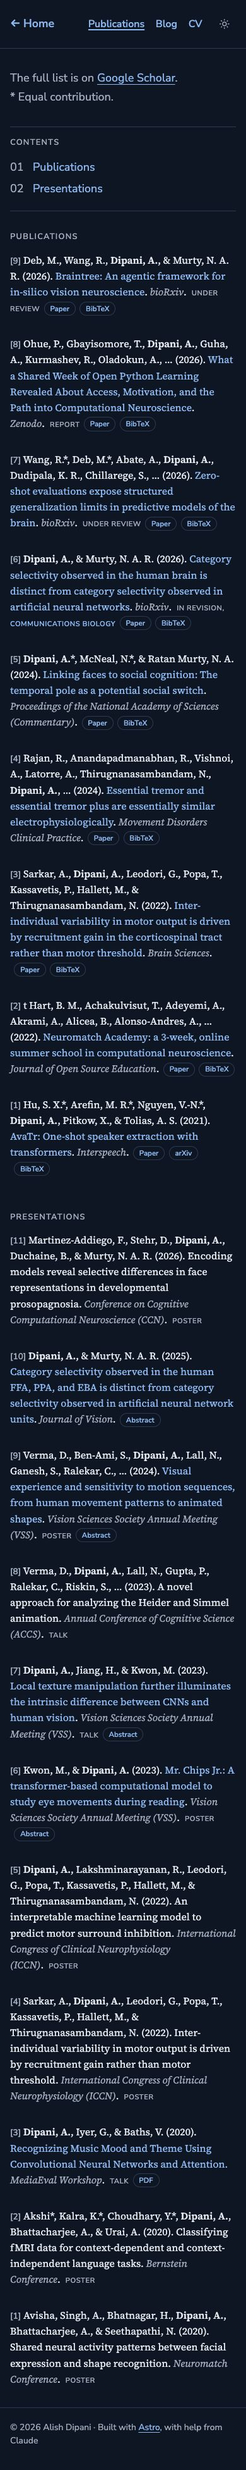
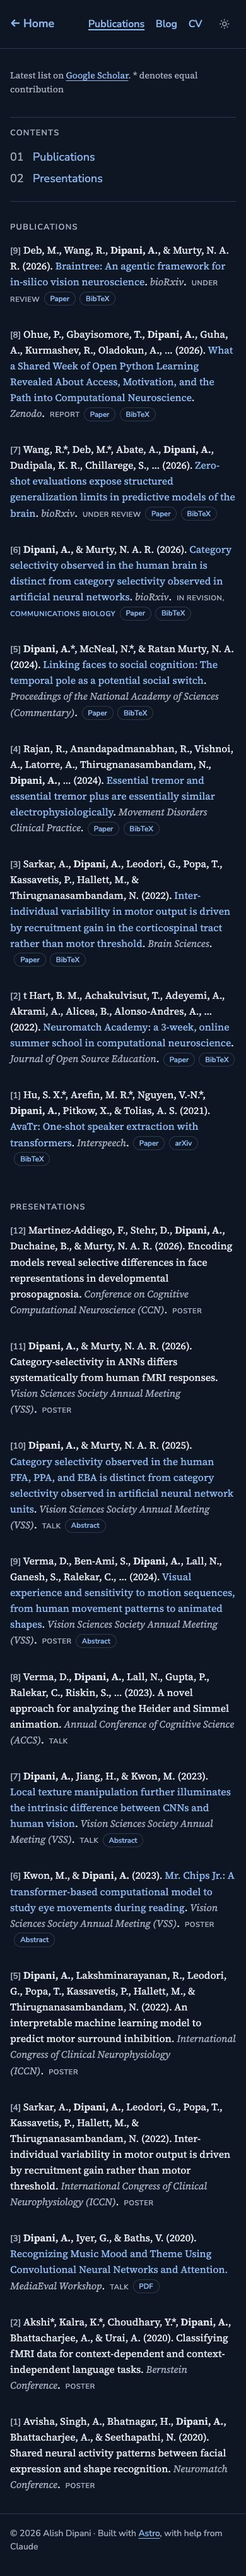
Presentations: VSS 2025 talk, VSS 2026 poster; Publications one-line note, aligned contents
- dipani2025category is a VSS 2025 talk (venue "Talk @ VSS"; Journal of Vision link kept)
- New presentation dipani2026categoryvss (VSS 2026 poster, [11]; CCN 2026 moves to [12]);
  no link yet, the VSS page isn't online
- Publications note: one line, "Latest list on Google Scholar. * denotes equal contribution",
  in the shared .page-note style (also used by the Blog note)
- Contents column on Publications starts level with the first section heading

diff --git a/src/styles/post.css b/src/styles/post.css
@@ -127,6 +127,8 @@ h2:hover .heading-anchor, h3:hover .heading-anchor, .heading-anchor:focus { opac
   .has-toc .toc-side { display: block; }
   /* On posts, start the contents column level with the title and image (below the "← Blog" row). */
   .post-page.has-toc .toc-side { padding-top: calc(1.5rem + var(--s3)); }
+  /* On Publications, start it level with the first section heading (below the one-line note). */
+  .pubs-page.has-toc .toc-side { padding-top: calc(0.88rem * 1.55 + var(--s3)); }
   .has-toc .toc-inline { display: none; }
   .has-toc .figure-wide { left: 0; transform: none; width: 100%; }
 }

diff --git a/src/styles/global.css b/src/styles/global.css
@@ -154,6 +154,8 @@ main > :last-child, main > :last-child > :last-child { margin-bottom: 0; }
 
 section { margin: var(--s4) 0; }
 .muted { color: var(--muted); }
+/* Small muted note under a page's (hidden) heading: Blog and Publications */
+.page-note { margin: 0 0 var(--s3); font: 0.88rem/1.55 var(--font-body); color: var(--muted); }
 time, .meta { font-family: var(--font-ui); color: var(--muted); font-size: 0.9rem; }
 
 .todo {

diff --git a/TODO.md b/TODO.md
@@ -18,6 +18,9 @@ instead of showing placeholders, so nothing here is visible on the site until it
 - **CV page content** beyond the PDF link, if wanted. → `src/pages/cv.astro`
 - **Site description** (search results / link previews). → `SITE.description` in `src/lib/site.ts`
 
+- **VSS 2026 poster link:** not online yet; add `url` to `dipani2026categoryvss` in `src/data/publications.bib`
+  once VSS posts it (or once the abstract is in Journal of Vision).
+
 ## Setup
 - **Google Analytics:** Task 7 (needs Alish's account decision; the old site used G-2TPX3E1SKE).
 - **Online preview:** create `alishdipani/website-preview`, add a deploy key, store it as the
